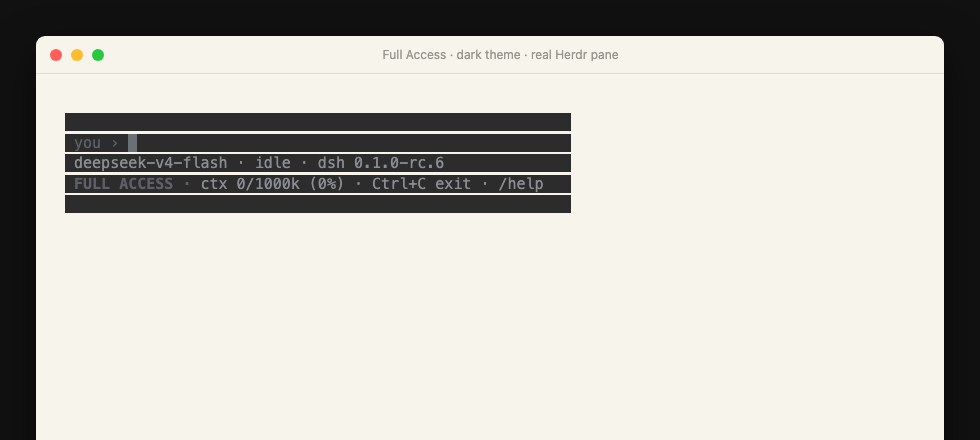
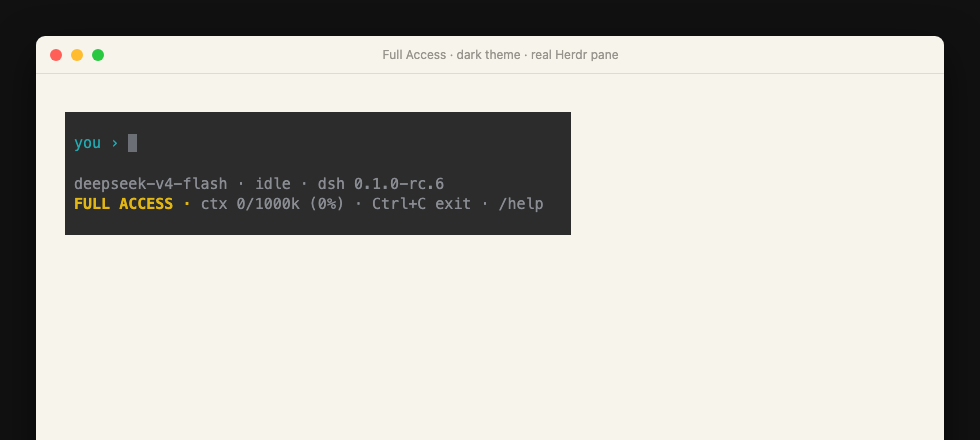
fix: give composer status breathing room

Changed region(s): [[0.0612, 0.2955, 0.5816, 0.5318]]

diff --git a/dist/index.js b/dist/index.js
@@ -915,29 +915,31 @@ function App({ controller }) {
             /* @__PURE__ */ jsx(Text, { color: prompt === void 0 ? palette.user : palette.warning, children: promptLabel }),
             /* @__PURE__ */ jsx(Box, { flexGrow: 1, children: /* @__PURE__ */ jsx(TextInput, { value, onChange: changeValue, onSubmit: submit }) })
           ] }),
-          /* @__PURE__ */ jsxs(Text, { color: palette.muted, children: [
-            model,
-            " \xB7 ",
-            state.status,
-            " \xB7 dsh ",
-            state.dshVersion ?? "unknown"
-          ] }),
-          state.dshUpgrade === void 0 ? null : /* @__PURE__ */ jsxs(Text, { color: palette.warning, children: [
-            "\u2191 DSH ",
-            state.dshUpgrade.version,
-            " available \xB7 ",
-            state.dshUpgrade.command
-          ] }),
-          /* @__PURE__ */ jsxs(Text, { children: [
-            showPermission ? /* @__PURE__ */ jsxs(Text, { color: fullAccess ? palette.warning : palette.muted, bold: fullAccess, children: [
-              permissionLabel(preset),
-              " \xB7 "
-            ] }) : null,
+          /* @__PURE__ */ jsxs(Box, { flexDirection: "column", marginTop: 1, children: [
             /* @__PURE__ */ jsxs(Text, { color: palette.muted, children: [
-              contextUsageLabel(state.usage, state.contextWindow),
-              " \xB7 Ctrl+C ",
-              state.status === "running" ? "cancel" : "exit",
-              " \xB7 /help"
+              model,
+              " \xB7 ",
+              state.status,
+              " \xB7 dsh ",
+              state.dshVersion ?? "unknown"
+            ] }),
+            state.dshUpgrade === void 0 ? null : /* @__PURE__ */ jsxs(Text, { color: palette.warning, children: [
+              "\u2191 DSH ",
+              state.dshUpgrade.version,
+              " available \xB7 ",
+              state.dshUpgrade.command
+            ] }),
+            /* @__PURE__ */ jsxs(Text, { children: [
+              showPermission ? /* @__PURE__ */ jsxs(Text, { color: fullAccess ? palette.warning : palette.muted, bold: fullAccess, children: [
+                permissionLabel(preset),
+                " \xB7 "
+              ] }) : null,
+              /* @__PURE__ */ jsxs(Text, { color: palette.muted, children: [
+                contextUsageLabel(state.usage, state.contextWindow),
+                " \xB7 Ctrl+C ",
+                state.status === "running" ? "cancel" : "exit",
+                " \xB7 /help"
+              ] })
             ] })
           ] })
         ]

diff --git a/src/app.tsx b/src/app.tsx
@@ -146,25 +146,27 @@ export function App({ controller }: { controller: TuiController }): React.JSX.El
             <TextInput value={value} onChange={changeValue} onSubmit={submit} />
           </Box>
         </Box>
-        <Text color={palette.muted}>
-          {model}{' · '}{state.status}{' · dsh '}{state.dshVersion ?? 'unknown'}
-        </Text>
-        {state.dshUpgrade === undefined ? null : (
-          <Text color={palette.warning}>
-            {'↑ DSH '}{state.dshUpgrade.version}{' available · '}{state.dshUpgrade.command}
-          </Text>
-        )}
-        <Text>
-          {showPermission ? (
-            <Text color={fullAccess ? palette.warning : palette.muted} bold={fullAccess}>
-              {permissionLabel(preset)}{' · '}
-            </Text>
-          ) : null}
+        <Box flexDirection="column" marginTop={1}>
           <Text color={palette.muted}>
-            {contextUsageLabel(state.usage, state.contextWindow)}{' · Ctrl+C '}
-            {state.status === 'running' ? 'cancel' : 'exit'}{' · /help'}
+            {model}{' · '}{state.status}{' · dsh '}{state.dshVersion ?? 'unknown'}
           </Text>
-        </Text>
+          {state.dshUpgrade === undefined ? null : (
+            <Text color={palette.warning}>
+              {'↑ DSH '}{state.dshUpgrade.version}{' available · '}{state.dshUpgrade.command}
+            </Text>
+          )}
+          <Text>
+            {showPermission ? (
+              <Text color={fullAccess ? palette.warning : palette.muted} bold={fullAccess}>
+                {permissionLabel(preset)}{' · '}
+              </Text>
+            ) : null}
+            <Text color={palette.muted}>
+              {contextUsageLabel(state.usage, state.contextWindow)}{' · Ctrl+C '}
+              {state.status === 'running' ? 'cancel' : 'exit'}{' · /help'}
+            </Text>
+          </Text>
+        </Box>
       </Box>
     </Box>
   )

diff --git a/README.md b/README.md
@@ -57,7 +57,7 @@ Inside the UI:
 - `Ctrl+C` cancels a running turn. When idle, it saves and exits.
 - `/status`, `/permission`, `/skills`, `/cancel`, `/help`, `/quit`, and `/exit` are available.
 - Tool calls, reasoning, approvals, and `ask_user_question` prompts render in the terminal.
-- A neutral composer surface keeps input and its compact two-line status together. Its background follows the resolved light/dark theme; the status shows model state, installed DSH version, and accumulated context usage without repeating the default workspace sandbox. Non-default permission states remain visible, with Full Access emphasized. `/permission` switches this session through DSH's official command — idle only, with a typed `FULL ACCESS` confirmation for full access.
+- A continuous neutral composer surface keeps input and its compact two-line status together, with a blank row of breathing room between them. Its background follows the resolved light/dark theme; the status shows model state, installed DSH version, and accumulated context usage without repeating the default workspace sandbox. Non-default permission states remain visible, with Full Access emphasized. `/permission` switches this session through DSH's official command — idle only, with a typed `FULL ACCESS` confirmation for full access.
 - `/skills` lists user-invocable skills. Type `/skill-name` to load one directly; slash commands and catalog skills offer Tab completion.
 
 ## Interface states

diff --git a/README.zh-CN.md b/README.zh-CN.md
@@ -57,7 +57,7 @@ dsh-tui -r <session-id>         # 恢复指定会话
 - `Ctrl+C` 在运行中取消 turn，idle 时保存并退出。
 - 内置 `/status`、`/permission`、`/skills`、`/cancel`、`/help`、`/quit` 和 `/exit`。
 - 工具调用、reasoning、审批和 `ask_user_question` 都直接显示在终端里。
-- 中性背景的 composer 将输入和紧凑的两行状态收在同一块面板中，背景会随 light/dark 主题变化；状态栏显示模型状态、已安装 DSH 版本和累计 context 用量，不重复默认 workspace sandbox。非默认权限仍会显示，Full Access 会重点警示。`/permission` 通过 DSH 官方命令切换当前会话权限；只能在 idle 时切换，Full Access 还必须输入 `FULL ACCESS` 确认。
+- 连续中性背景的 composer 将输入和紧凑的两行状态收在同一块面板中，两者之间留出一整行呼吸空间。背景会随 light/dark 主题变化；状态栏显示模型状态、已安装 DSH 版本和累计 context 用量，不重复默认 workspace sandbox。非默认权限仍会显示，Full Access 会重点警示。`/permission` 通过 DSH 官方命令切换当前会话权限；只能在 idle 时切换，Full Access 还必须输入 `FULL ACCESS` 确认。
 - `/skills` 列出用户可调用的 skills。输入 `/skill-name` 可直接加载；slash command 和 skill catalog 支持 Tab 补全。
 
 ## 界面状态

diff --git a/CHANGELOG.md b/CHANGELOG.md
@@ -4,6 +4,12 @@ All notable changes to dsh-tui are documented here. `package.json` is the machin
 
 The format follows [Keep a Changelog](https://keepachangelog.com/en/1.1.0/), and the project uses [Semantic Versioning](https://semver.org/).
 
+## [0.4.1] - 2026-08-13
+
+### Changed
+
+- Kept the composer as one continuous neutral surface and added a full blank row between input and bottom-aligned status.
+
 ## [0.4.0] - 2026-08-13
 
 ### Added
@@ -64,7 +70,8 @@ The format follows [Keep a Changelog](https://keepachangelog.com/en/1.1.0/), and
 - Initial same-process DeepSeek Harness TUI bundle.
 - Streaming text and reasoning, tool rows, approvals, questions, cancellation, status, and durable session continuation.
 
-[0.4.0]: https://github.com/orriduck/dsh-tui/compare/d69fd3f...HEAD
+[0.4.1]: https://github.com/orriduck/dsh-tui/compare/03ee02d...HEAD
+[0.4.0]: https://github.com/orriduck/dsh-tui/compare/d69fd3f...03ee02d
 [0.3.1]: https://github.com/orriduck/dsh-tui/compare/06ceacd...d69fd3f
 [0.3.0]: https://github.com/orriduck/dsh-tui/compare/a1325b7...06ceacd
 [0.2.1]: https://github.com/orriduck/dsh-tui/compare/10f73e1...4829e80
